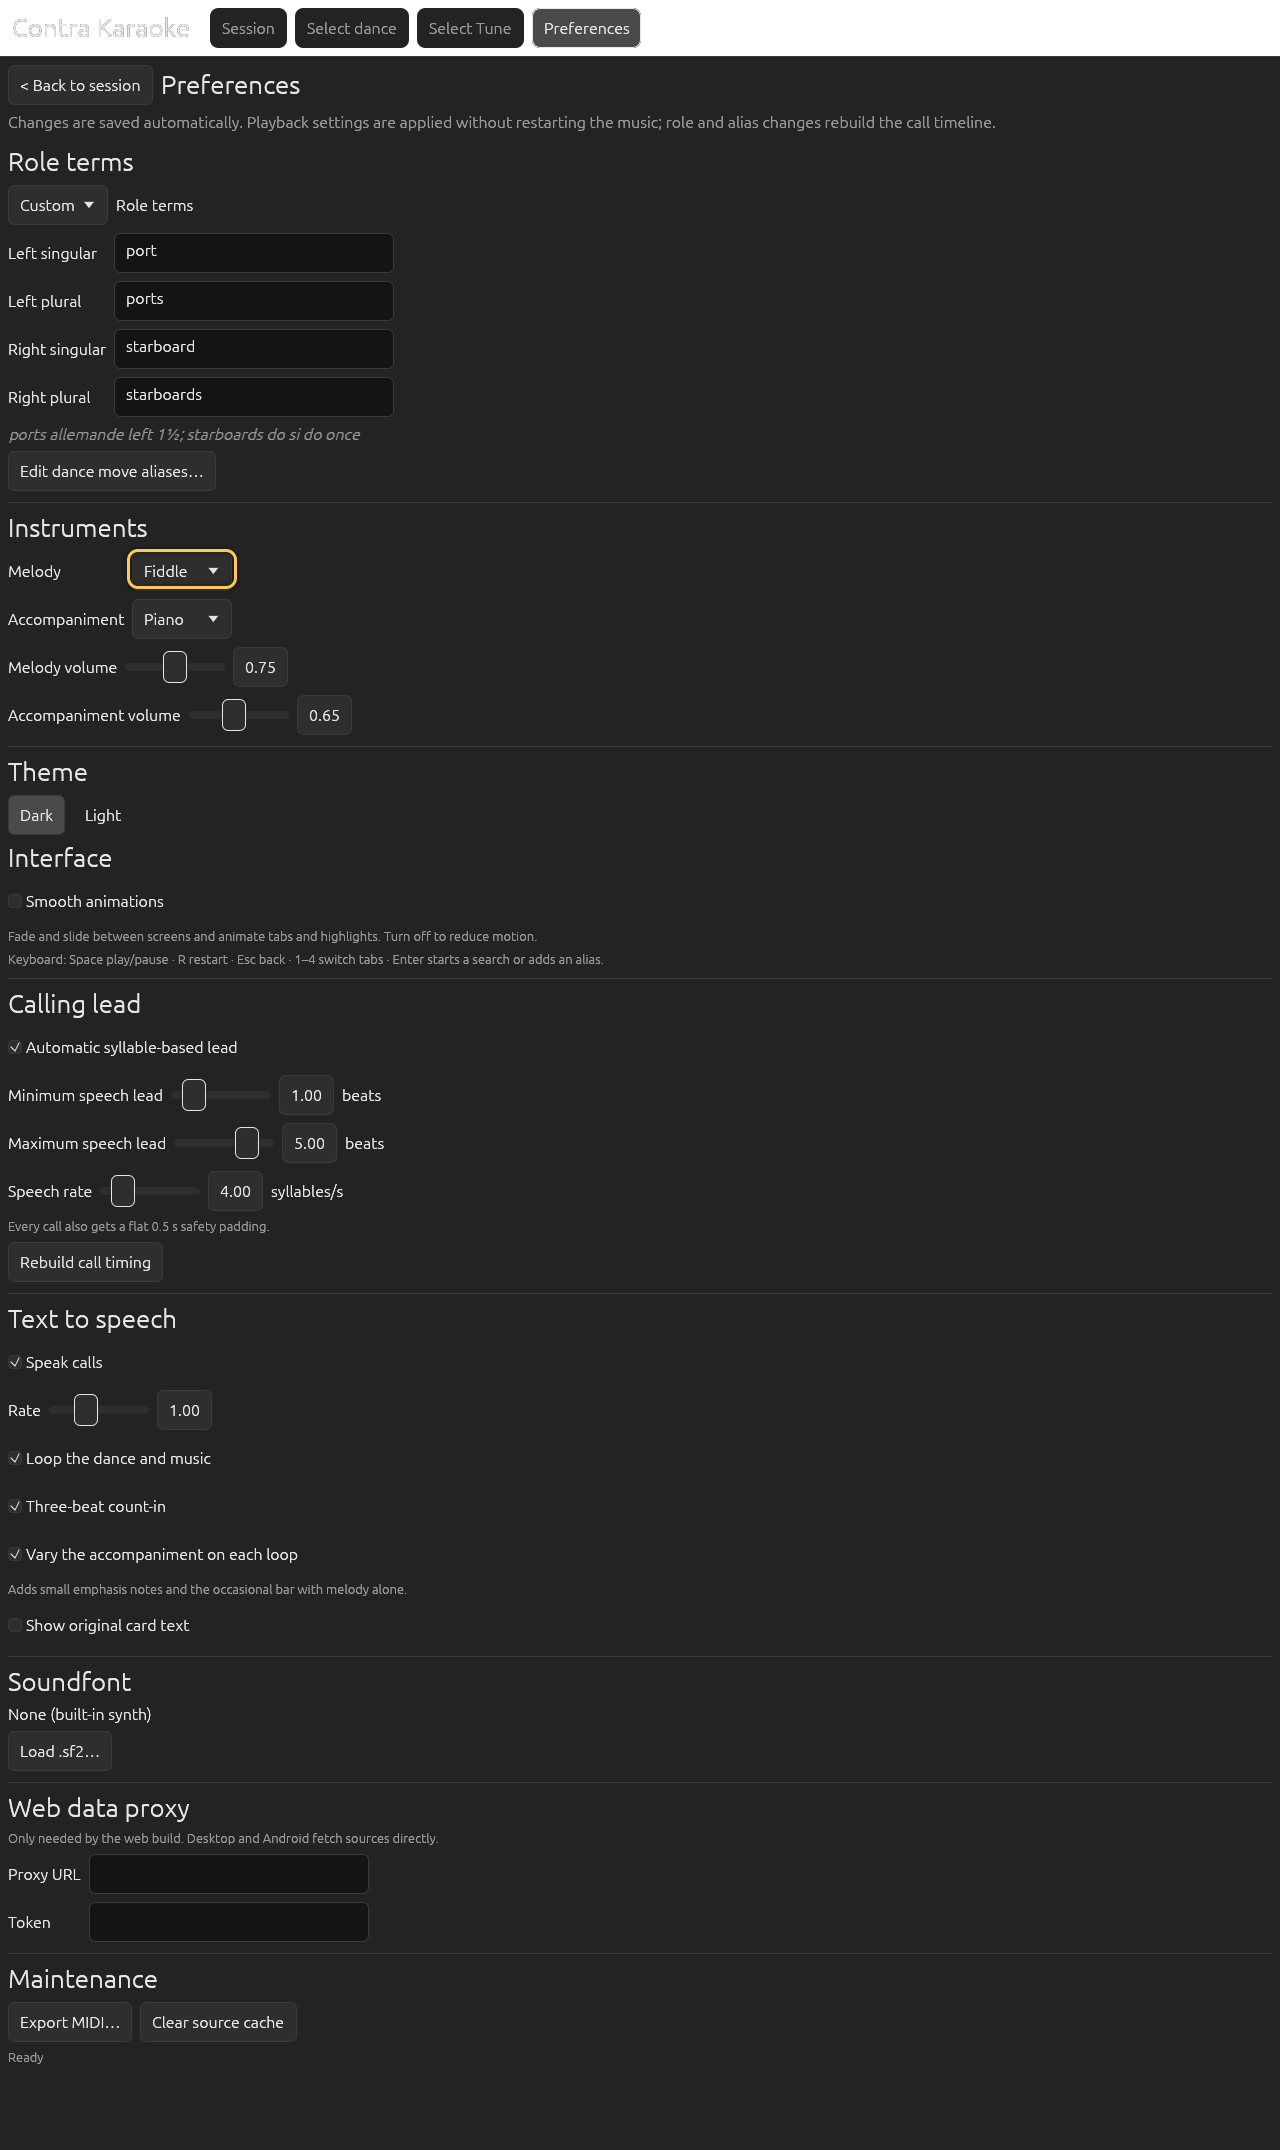
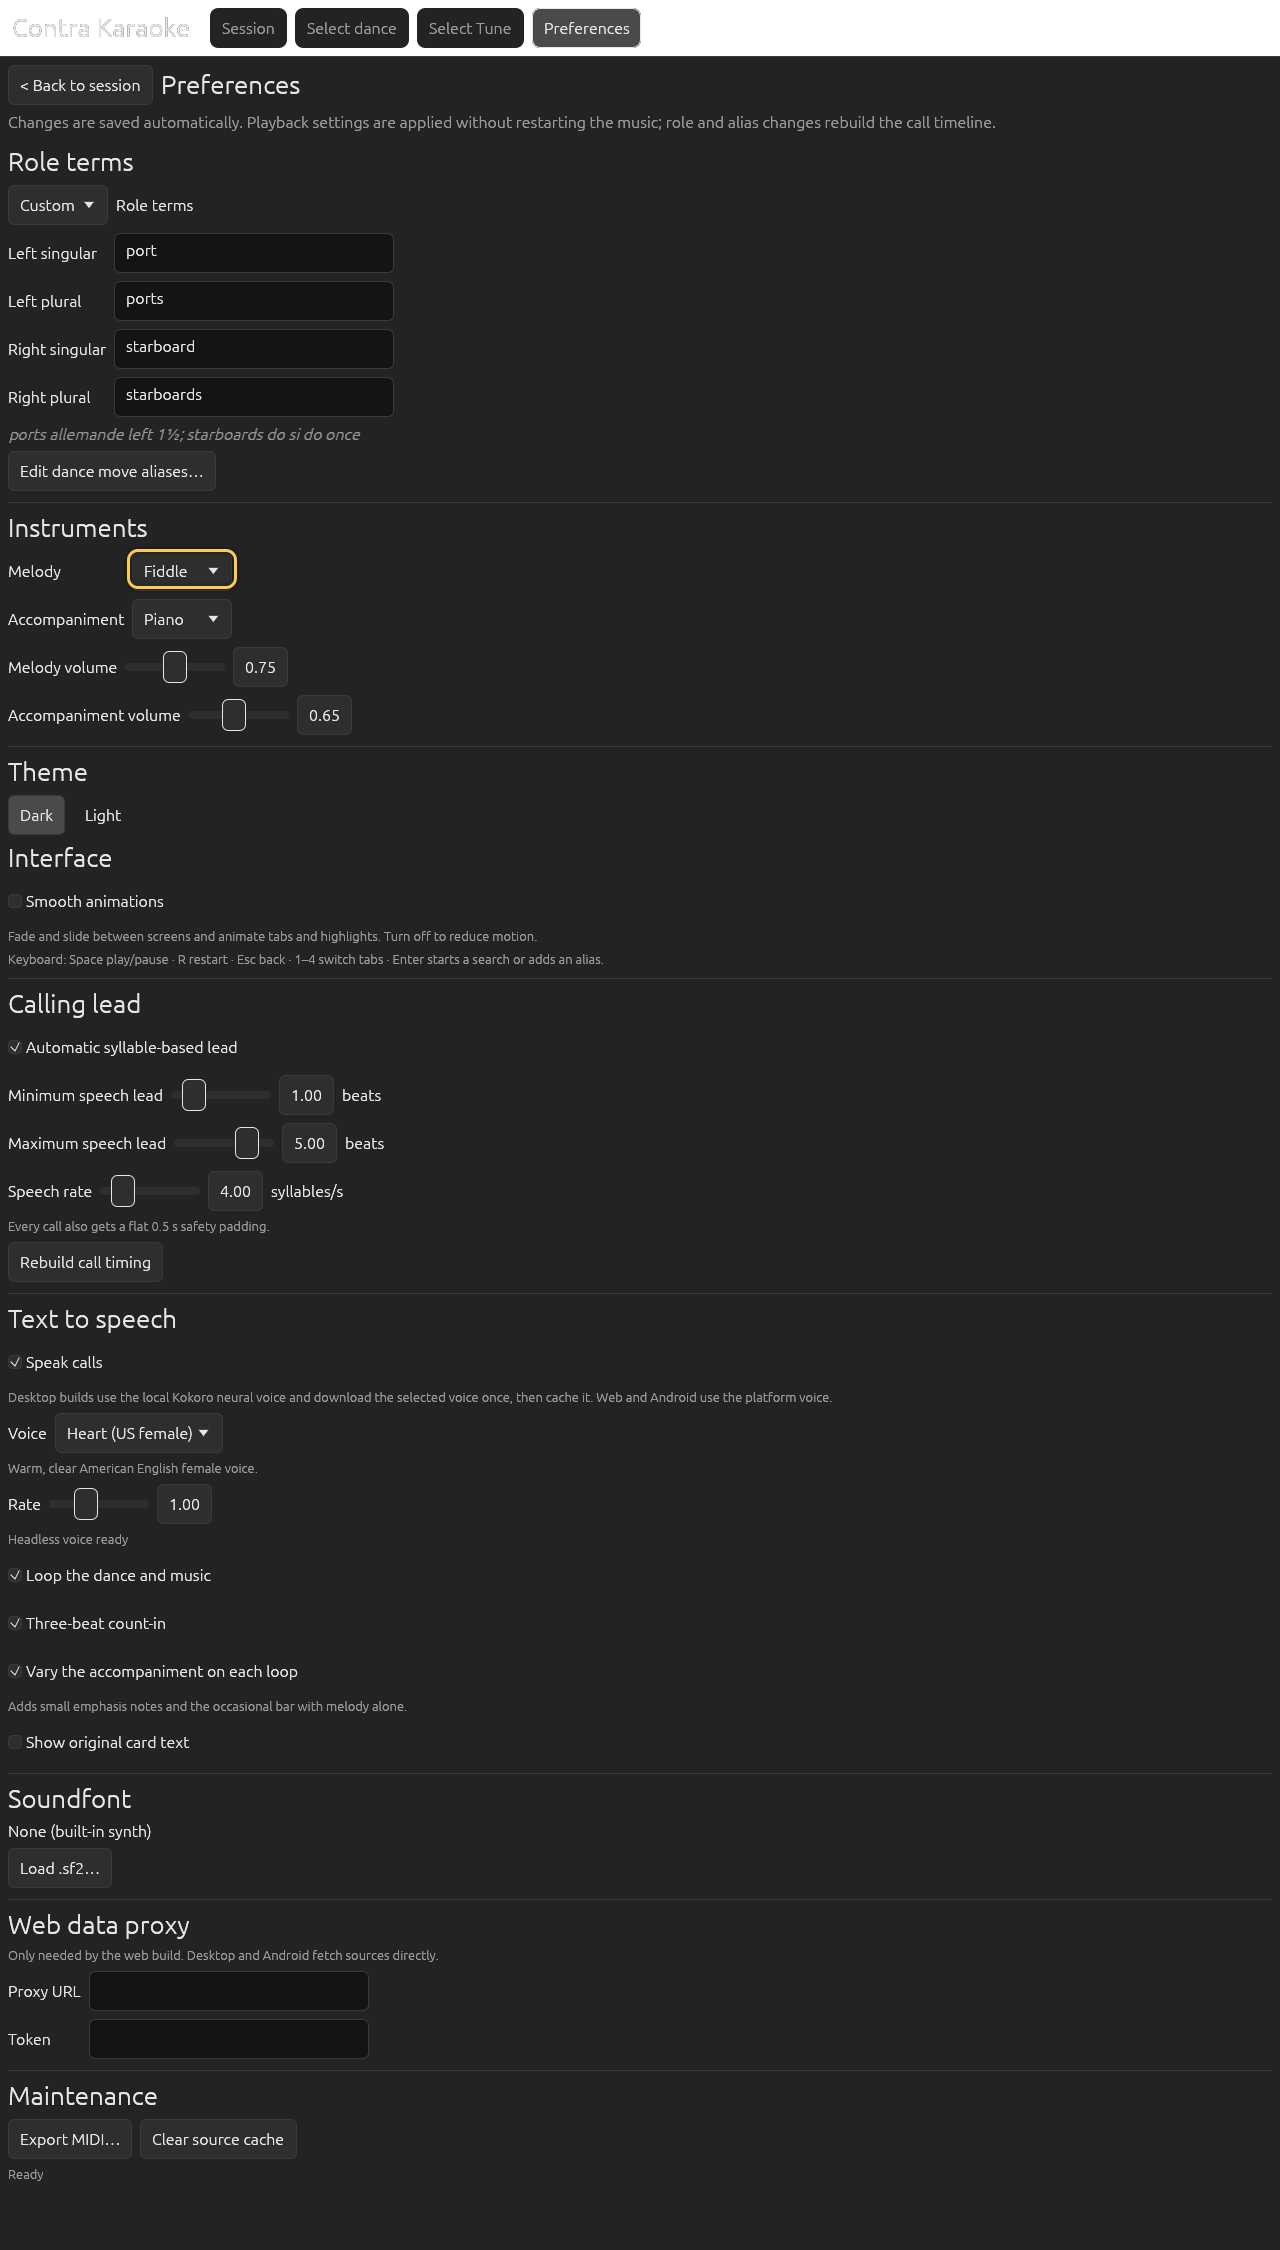
docs(website): cover Kokoro voices and pronunciation

diff --git a/crates/app/src/app/headless.rs b/crates/app/src/app/headless.rs
@@ -389,7 +389,7 @@ pub fn run() -> Result<(), Box<dyn Error>> {
     capture(&mut harness, out, "prefs-alias-reset-all")?;
 
     // Preferences sections that sit below the fold at 1280x800.
-    harness.set_size(Vec2::new(1280.0, 2150.0));
+    harness.set_size(Vec2::new(1280.0, 2250.0));
     {
         let app = harness.state_mut();
         app.screen = Screen::Preferences;

diff --git a/website/docs/guides/text-to-speech.md b/website/docs/guides/text-to-speech.md
@@ -1,13 +1,19 @@
 ---
 title: Text to speech
-description: Enable spoken calls, set the speaking rate, and understand what happens when a system voice is unavailable.
+description: Enable spoken calls, choose the local Kokoro voice, set the speaking rate, and understand pronunciation corrections and fallbacks.
 sidebar_position: 8
 ---
 
 Text to speech is optional. The visual call prompt is always the primary
 signal; speech is an additional cue for practice or for callers who want to hear
-the wording. TTS uses the platform voices: Windows SAPI, Linux Speech
-Dispatcher, Android's TTS engine, and the browser's installed voices.
+the wording.
+
+Desktop builds use a local **Kokoro-82M neural voice**. The selected voice is a
+small style file downloaded once and cached; the model itself runs locally, with
+no account or cloud service. Windows and Linux use the neural voice when it is
+ready. Web and Android use the platform voices: the browser's installed voices
+and Android's TTS engine. If the neural voice cannot start, desktop falls back to
+the platform voice.
 
 ## Enable spoken calls
 
@@ -23,12 +29,28 @@ alias once. It does not queue stale calls: pausing stops speech, and restarting
 or rebuilding the timeline clears the last-spoken state. Pause before restarting
 if a long call is still being spoken.
 
+## Choose a voice
+
+<Steps>
+  <Step shot="prefs-tts-rate">
+    Open **Preferences → Text to speech**. On desktop, choose **Voice** from
+    Heart, Bella, Nicole, Michael, or Fenrir. The description below the menu
+    summarises the selected voice. Web and Android show the selector disabled
+    because they use the platform voice.
+  </Step>
+</Steps>
+
+The default is **Heart (US female)**. All five voices use the same Kokoro model
+and differ only in the downloaded style file. On first use, the section shows a
+progress bar while the voice is prepared; later runs load it from the cache. If
+preparation fails, desktop shows **Retry neural voice** and continues with the
+platform voice.
+
 ## Set the rate
 
 <Steps>
   <Step shot="prefs-tts-rate">
-    Open **Preferences → Text to speech** and adjust **Rate**. The range is 0.5
-    to 2.0; the default is 1.0.
+    Adjust **Rate**. The range is 0.5 to 2.0; the default is 1.0.
   </Step>
 </Steps>
 
@@ -36,13 +58,32 @@ The TTS rate does **not** change the visual lead. If a slower voice needs more
 time, raise the maximum speech lead in
 [Timing and lead](/docs/guides/timing-and-lead).
 
+## Pronunciation review
+
+Kokoro reads phonemes, not letters, and its grapheme-to-phoneme model is
+occasionally wrong for contra vocabulary. The app corrects the terms that matter
+before synthesis:
+
+| Term | Corrected pronunciation |
+| --- | --- |
+| `poussette` | “poo-SET” |
+| `petronella` | “pet-roh-NEL-uh”, with the contra stress |
+| `promenade` | “prom-uh-NADE” |
+| `do-si-do` | “doe see doe” |
+| `gentlespoon(s)` | “gentle spoon(s)” |
+| `Rory O'More` | “Rory O More”, without spelling out the apostrophe |
+
+The platform voice receives respellings where its own dictionary needs them.
+The full review, phoneme tables, and the ignored real-model smoke test live in
+`docs/pronunciation.md` in the repository.
+
 ## If no voice is available
 
 <Steps>
   <Step shot="prefs-tts-unavailable">
-    If the system has no usable speech voice, the Preferences section shows a
-    muted `TTS unavailable:` message and the session shows an explanation when
-    **Speak calls** is enabled.
+    If neither the neural voice nor a platform voice is usable, the Preferences
+    section shows a muted `TTS unavailable:` message and the session shows an
+    explanation when **Speak calls** is enabled.
   </Step>
 </Steps>
 

diff --git a/docs/DOCS_WEBSITE_PLAN.md b/docs/DOCS_WEBSITE_PLAN.md
@@ -1,7 +1,7 @@
 # Documentation Website and Automated Screenshot Plan
 
 **Status:** documentation complete; 69 in-app screenshots rendered headlessly
-**Baseline:** local `main` at `b211b73`
+**Baseline:** local `main` at `0973cc9`
 **Date:** 2026-11-14
 **Owner:** docs track, running alongside app generation
 **Targets:** Docusaurus 3.10 · Node 24 LTS · `egui`/`eframe` 0.37 · `egui_kittest` 0.37 · Rust 1.95
@@ -56,7 +56,7 @@ that now exists on `main`.
 - Many inputs are not associated with their labels, and several labels repeat
   (`Preview`, `Reset to default`). The headless renderer disables the automatic
   accessibility check; a label pass remains future work.
-- The branch is rebased onto `main` at `b211b73`. The `mcp` crate and
+- The branch is rebased onto `main` at `0973cc9`. The `mcp` crate and
   `inspection` feature add a live-app automation path; the docs screenshots use
   the separate headless binary instead.
 
@@ -184,7 +184,7 @@ real app.
 | Data | Bundled defaults + synthetic fixtures, offline | Deterministic, no network, no licensing surprises |
 | Storage | PNGs committed under `website/static/img/screens/` | Reviewable diffs, fast docs builds |
 | Instruction API | `<Step shot="id">` MDX component | Makes “instruction without screenshot” impossible |
-| App baseline | `b211b73`, headless renderer added | Library, `contra-headless`, sheet-music preview, keyboard shortcuts, and live MCP inspection exist |
+| App baseline | `0973cc9`, headless renderer added | Library, `contra-headless`, sheet-music preview, keyboard shortcuts, Kokoro voices, and live MCP inspection exist |
 | Manual images | Windows/Android OS dialogs only | Automating OS UI is disproportionate for three images |
 | Analytics | None | Matches app privacy rules |
 
@@ -661,7 +661,7 @@ prefs are fixed.
 {
   "schemaVersion": 1,
   "appVersion": "0.1.0",
-  "appCommit": "b211b73",
+  "appCommit": "0973cc9",
   "egui": "0.37.0",
   "renderer": "wgpu-vulkan-llvmpipe",
   "shots": {

diff --git a/website/docs/reference/troubleshooting.md b/website/docs/reference/troubleshooting.md
@@ -21,7 +21,7 @@ message in Preferences.
 | Keyboard shortcuts do nothing | Click a non-text area first. Space, R, Esc, 1–4, and Enter are ignored while a text field has focus. |
 | Search returns an error | Dismiss it and retry. Cached content may still be available. In a browser, check the web proxy URL/token. |
 | Search results look old | The cache is 7 days for searches and 30 days for details. Clear it from Maintenance. |
-| No spoken calls | Check the OS/browser voice, the **Speak calls** toggle, **Rate**, and that the music is playing. |
+| No spoken calls | Check the **Speak calls** toggle, **Rate**, the selected **Voice**, and that the music is playing. On desktop, wait for the first voice preparation or select **Retry neural voice**. |
 | SoundFont sounds wrong or silent | On desktop, remove it and return to the built-in synth; check the GM programs required by your file. |
 | SoundFont loading is unavailable | The browser and Android builds cannot load `.sf2` in 0.1.0; use the built-in synth. |
 | MIDI export is unavailable | Export is desktop-only in 0.1.0; the browser and Android builds report the limitation. |
@@ -72,9 +72,11 @@ and exporting MIDI are not available in the Android build yet.
 
 ## TTS errors
 
-If the system has no speech voice, **Speak calls** does not produce sound. The
-Preferences section shows the reason in muted text. Visual calls continue; see
-[Text to speech](/docs/guides/text-to-speech).
+On desktop, the first use of a Kokoro voice downloads the model and style file.
+If that fails, the app shows the reason, offers **Retry neural voice**, and falls
+back to the platform voice. If neither voice is usable, **Speak calls** does not
+produce sound and the Preferences section shows the reason in muted text. Visual
+calls continue; see [Text to speech](/docs/guides/text-to-speech).
 
 ## SoundFont errors
 

diff --git a/website/docs/reference/privacy.md b/website/docs/reference/privacy.md
@@ -18,6 +18,8 @@ does not send usage data to the project.
   `localStorage`. The cache is cleared manually from Preferences.
 - **SoundFont** — if you load one, the app stores its display name and path in
   preferences. The file itself remains where you put it.
+- **Neural voice cache** — on desktop, the Kokoro model and the selected voice
+  style file are stored in the app cache after the first download.
 
 ## What goes over the network
 
@@ -25,11 +27,13 @@ The app contacts only the sources you use:
 
 - `contradb.com` for dance search and details;
 - `backend.abcsessiontunes.com` for tune search and details;
-- a configured web proxy, if you set one.
+- a configured web proxy, if you set one;
+- Hugging Face, once, to download the Kokoro model and voice files for the
+  desktop neural voice.
 
 There are no analytics endpoints, crash reports, or update checks. The app does
 not fetch a page unless a search or selection asks for it; it does not crawl a
-site.
+site. After the neural voice is cached, speech synthesis is local.
 
 ## Proxy tokens
 

diff --git a/website/docs/guides/cache-and-offline.md b/website/docs/guides/cache-and-offline.md
@@ -8,6 +8,10 @@ Contra Karaoke fetches dances from ContraDB and tunes from ABC Session Tunes,
 then caches the raw responses locally: files on the desktop and Android, and
 `localStorage` in the browser. The two bundled defaults work without a network.
 
+On desktop, the Kokoro neural voice is cached separately: the model and the
+selected voice style file are downloaded once and reused offline. The platform
+voice is used if the neural voice is not ready.
+
 ## Cache lifetimes
 
 | Content | Lifetime |
@@ -48,8 +52,8 @@ earlier.
   </Step>
 </Steps>
 
-Clearing the cache does not remove preferences, the bundled defaults, or a
-loaded SoundFont.
+Clearing the cache does not remove preferences, the bundled defaults, a loaded
+SoundFont, or the cached neural voice files.
 
 There is no cache-size display or manual refresh button in the current UI. Use
 the normal search action to fetch fresh content after clearing.

diff --git a/website/docs/reference/known-limitations.md b/website/docs/reference/known-limitations.md
@@ -26,8 +26,10 @@ development release. These are the limitations to know before relying on it.
   is unavailable.
 - A **SoundFont is not bundled**. You supply the file and are responsible for
   its license.
-- **TTS** depends on the operating system or browser voice. If no voice is
-  installed, visual calls continue.
+- **TTS** uses the local Kokoro neural voice on desktop. The model and selected
+  voice are downloaded on first use and then cached; a first run without a
+  network connection falls back to the platform voice. Web and Android always
+  use the platform voice. Visual calls continue if no voice is available.
 - **Page size** is fixed at ten results; there is no page-size selector.
 - There is no offline “using cached content” banner; stale cache is used
   silently.
